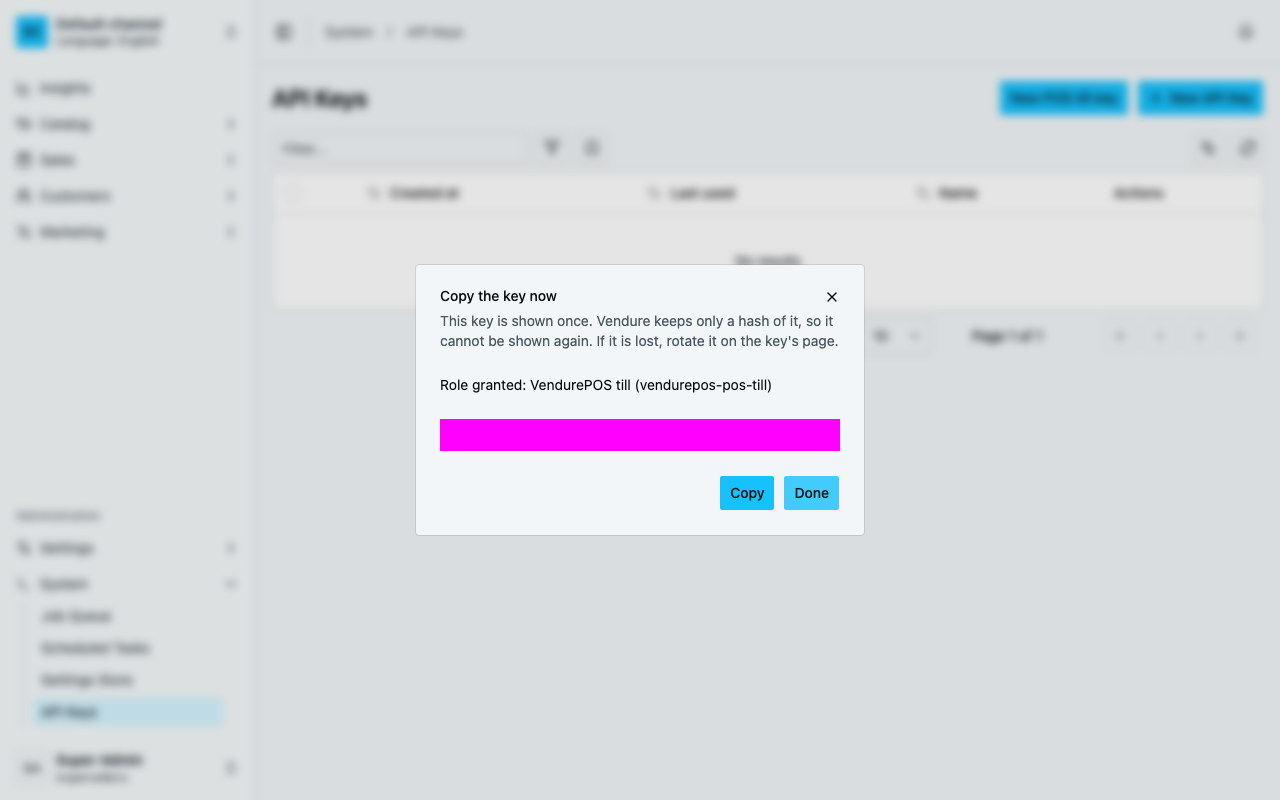
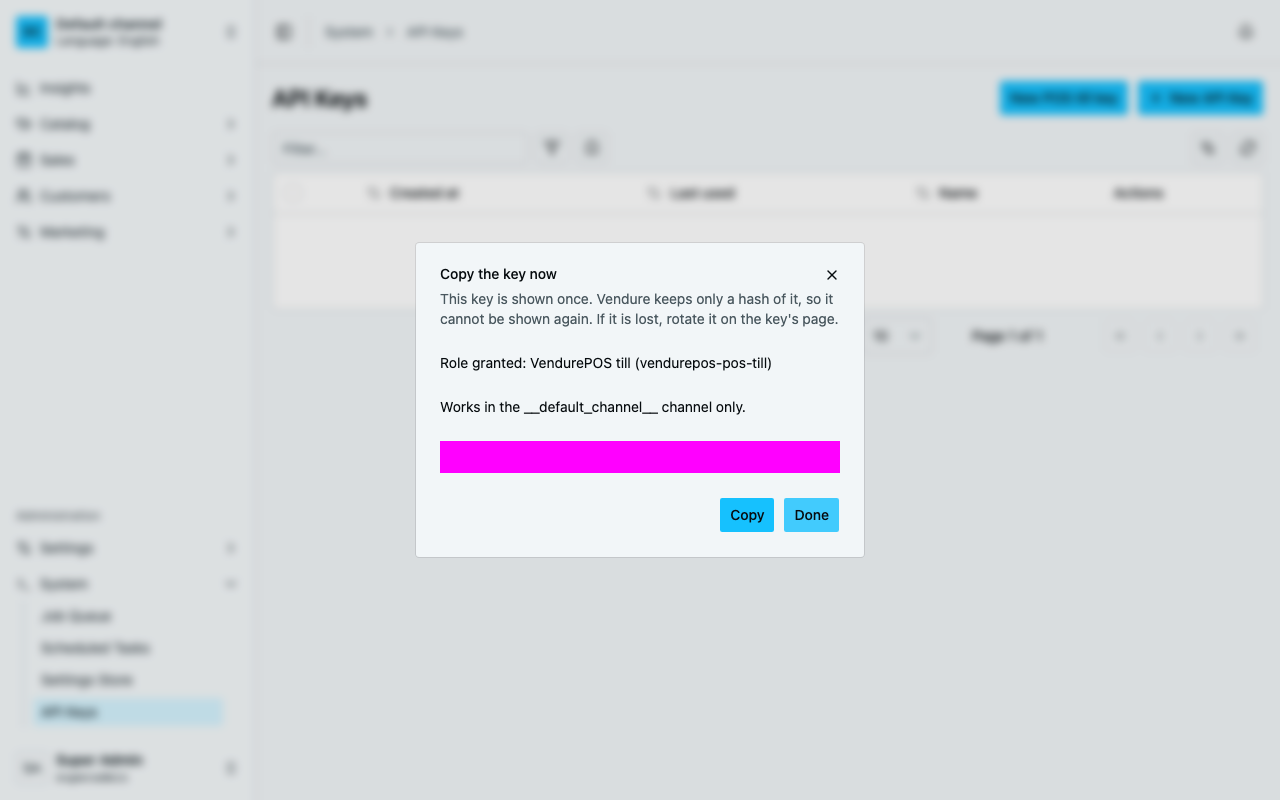
Plugin: "New POS till key" names the channel the key works in
Vendure's ApiKey is channel-aware: createApiKey assigns the Dashboard's current
channel, and a key is found only under that channel's token. The smoke e2e of
the device-key sign-in found it (403 for a key made in the default channel and
used with the POS channel's token). The dialog now says which channel, before
and after creating the key; the README says to switch channel first.

Claude-Session: https://claude.ai/code/session_011CovbuhMq8EhE1LoyWhLQX

Changed region(s): [[0.3125, 0.3125, 0.6875, 0.7188]]

diff --git a/packages/vendure-plugin/src/dashboard/index.tsx b/packages/vendure-plugin/src/dashboard/index.tsx
@@ -18,6 +18,8 @@ export default defineDashboardExtension({
 
 function NewPosTillKey() {
   const { activeChannel } = useChannel();
+  // Vendure's ApiKey is channel-aware; createApiKey assigns the current channel.
+  const channelCode = activeChannel?.code ?? '';
   const [open, setOpen] = useState(false);
   const [name, setName] = useState('');
   const [pending, setPending] = useState(false);
@@ -73,6 +75,7 @@ function NewPosTillKey() {
             </DialogDescription>
           </DialogHeader>
           <p data-testid="vendurepos-till-key-role">Role granted: {result.role.description} ({result.role.code})</p>
+          <p data-testid="vendurepos-till-key-channel">{`Works in the ${channelCode} channel only.`}</p>
           <code data-testid="vendurepos-till-key-secret" className="font-mono text-xs break-all select-all">{result.secret}</code>
           <DialogFooter>
             <Button data-testid="vendurepos-till-key-copy" onClick={async () => {
@@ -90,6 +93,7 @@ function NewPosTillKey() {
             <DialogTitle>New POS till key</DialogTitle>
             <DialogDescription>Creates an API key for one till, with the VendurePOS till role. Name it after the device.</DialogDescription>
           </DialogHeader>
+          <p data-testid="vendurepos-till-key-channel">{`For the ${channelCode} channel. A key works only in the channel it is created in, so switch the Dashboard to the till's channel first.`}</p>
           <Label htmlFor="vendurepos-till-key-name">Device name</Label>
           <Input id="vendurepos-till-key-name" data-testid="vendurepos-till-key-name"
             placeholder="Front counter iPad" value={name} onChange={event => setName(event.target.value)} />

diff --git a/packages/vendure-plugin/CHANGELOG.md b/packages/vendure-plugin/CHANGELOG.md
@@ -2,6 +2,7 @@
 
 ## Unreleased
 
+- The **New POS till key** dialog names the channel the key works in; Vendure's API keys are channel-aware.
 - `GET /tally/v1/info` returns `device: { name }` (the API key's name) when the caller signs in with an API key, and leaves it out for sessions; the till shows it as its cashier (ADR 0004).
 - Dashboard extension: **New POS till key** on Vendure's API keys page creates a named key with the POS till role and shows it once (ADR 0004).
 - Add the `TallyPosSell` permission. The `/tally/v1` routes accept it or `CreateOrder`, so existing installs keep working with no role change; give new tills' administrators `TallyPosSell` instead of the broader `CreateOrder`.

diff --git a/packages/vendure-plugin/README.md b/packages/vendure-plugin/README.md
@@ -166,6 +166,8 @@ expression index, so it neither drops nor re-adds it. On start, the server proce
 With Vendure's React Dashboard, the API keys page (Settings → API keys) gains **New POS till key**.
 It creates or extends the `vendurepos-pos-till` role, creates a named key with it, and shows the key once.
 
+The key works only in the channel the Dashboard is in when you create it (Vendure's API keys are channel-aware), so switch to the till's channel first. The dialog names it.
+
 Rotate and delete stay on Vendure's own key page. The till signs in with the key only when
 `authOptions.tokenMethod` includes `'api-key'` (ADR 0004).
 
